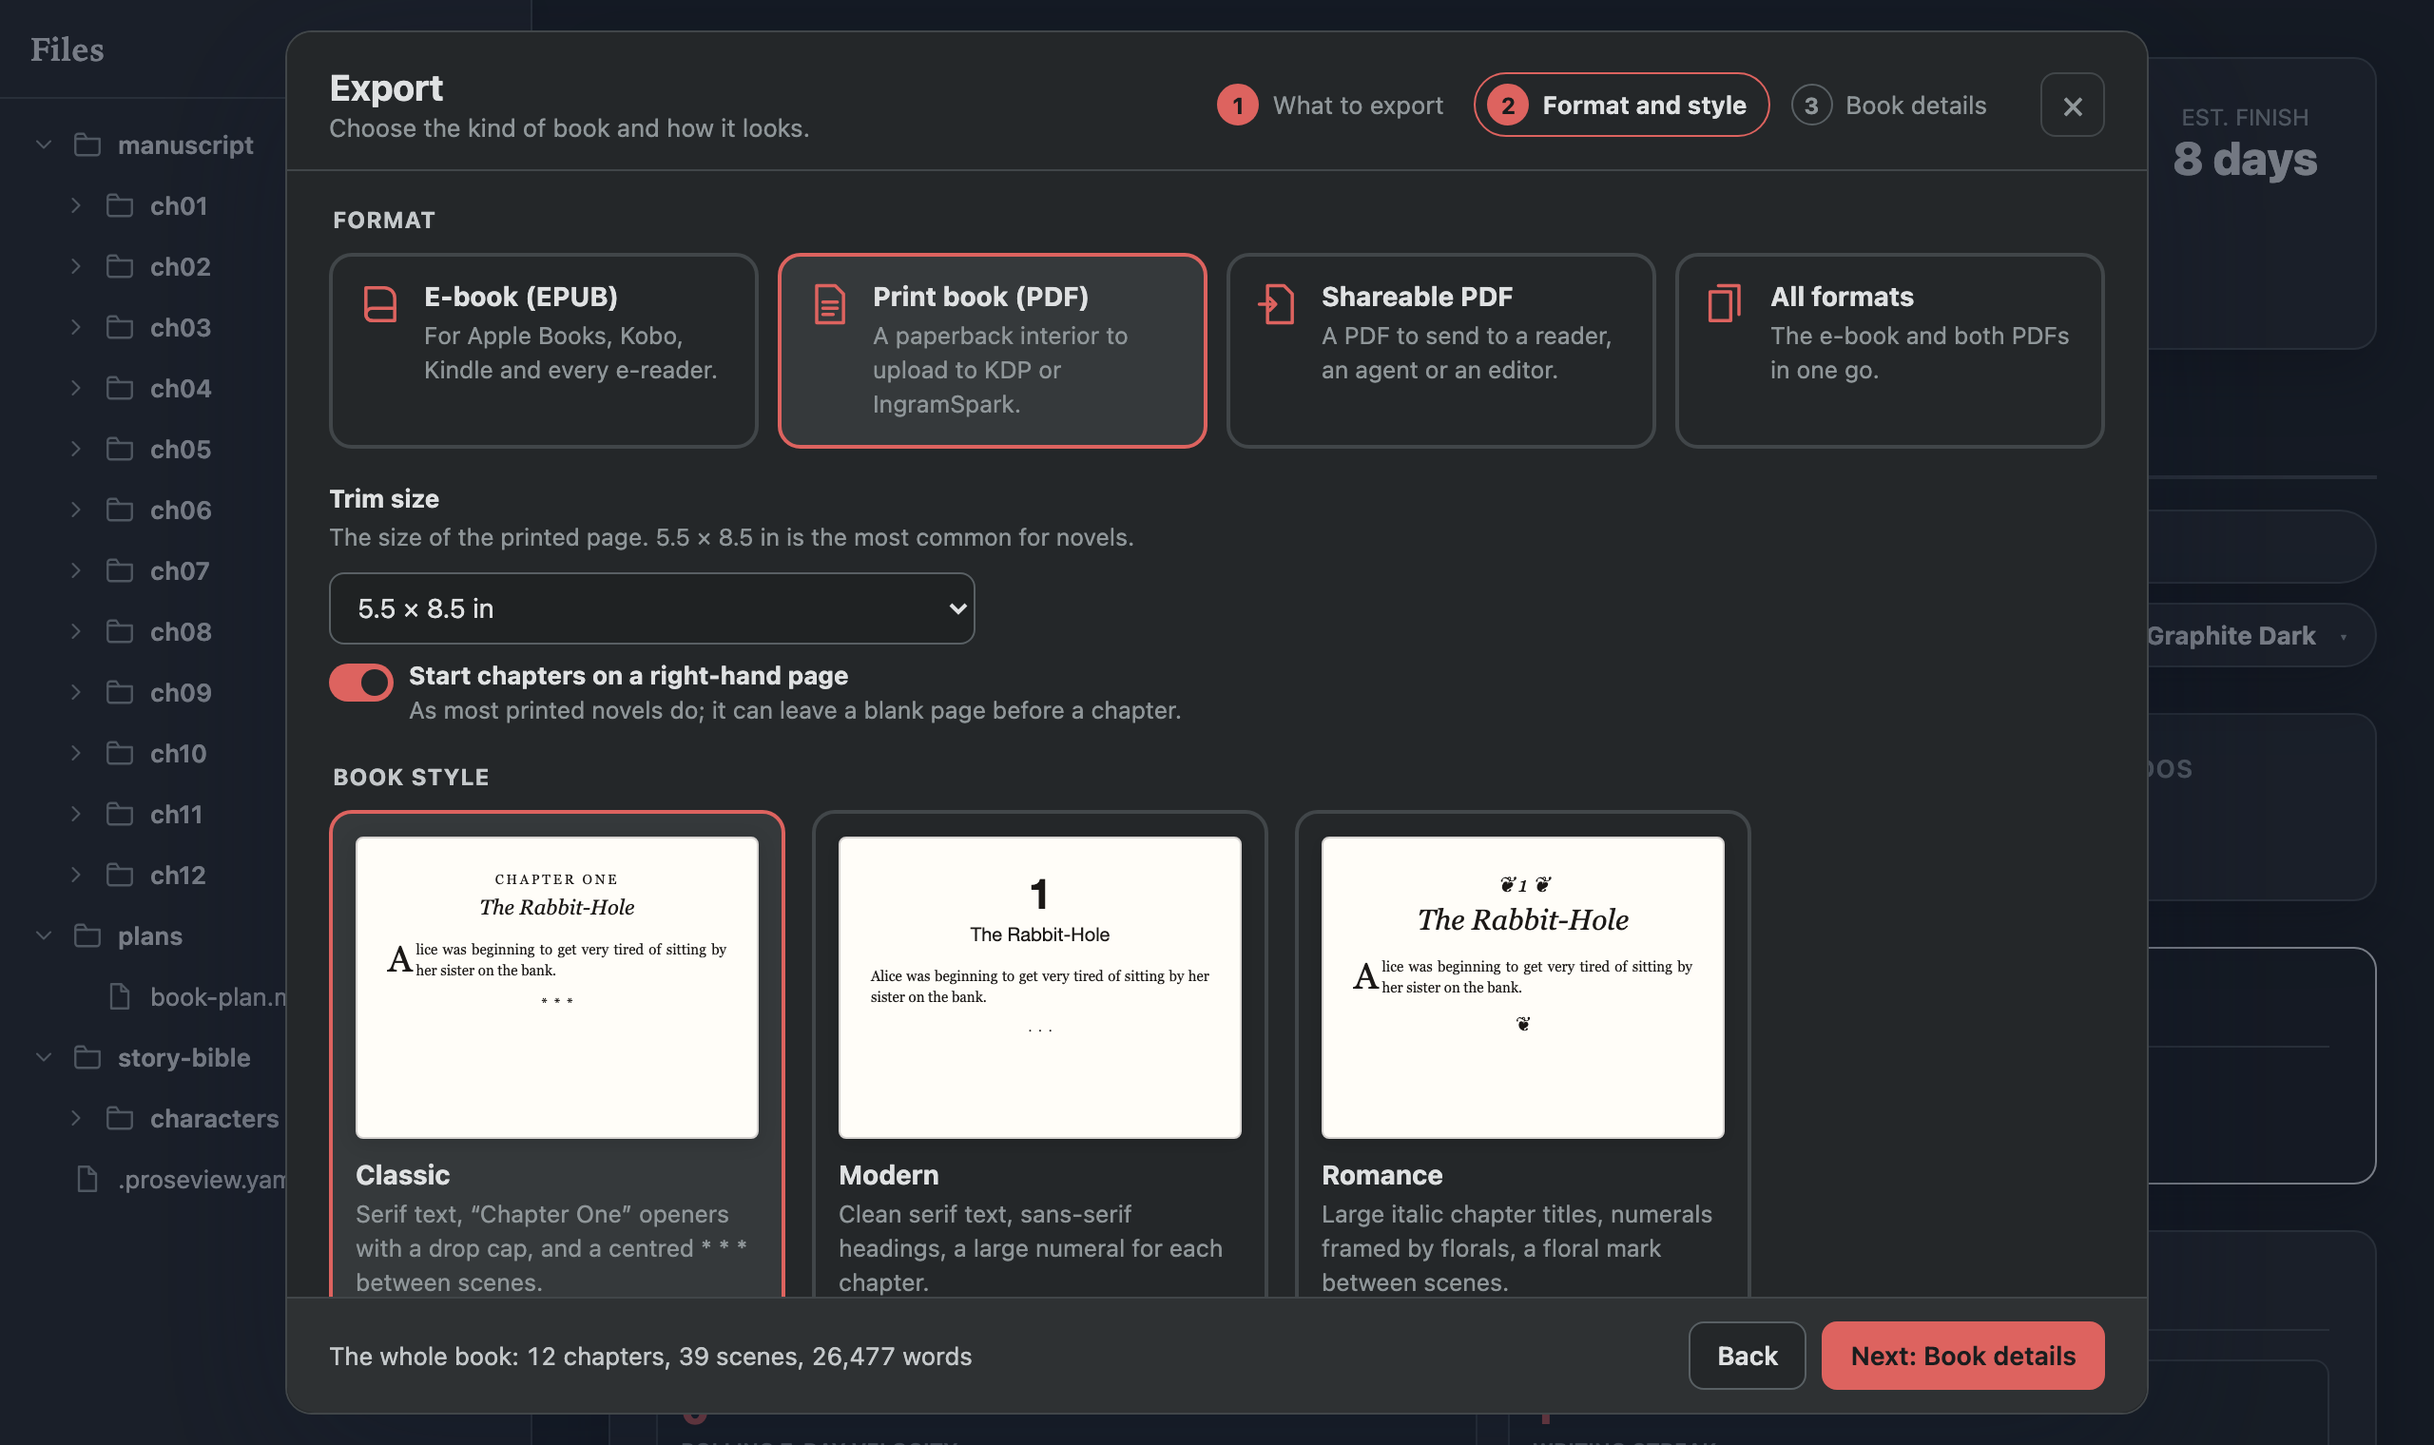
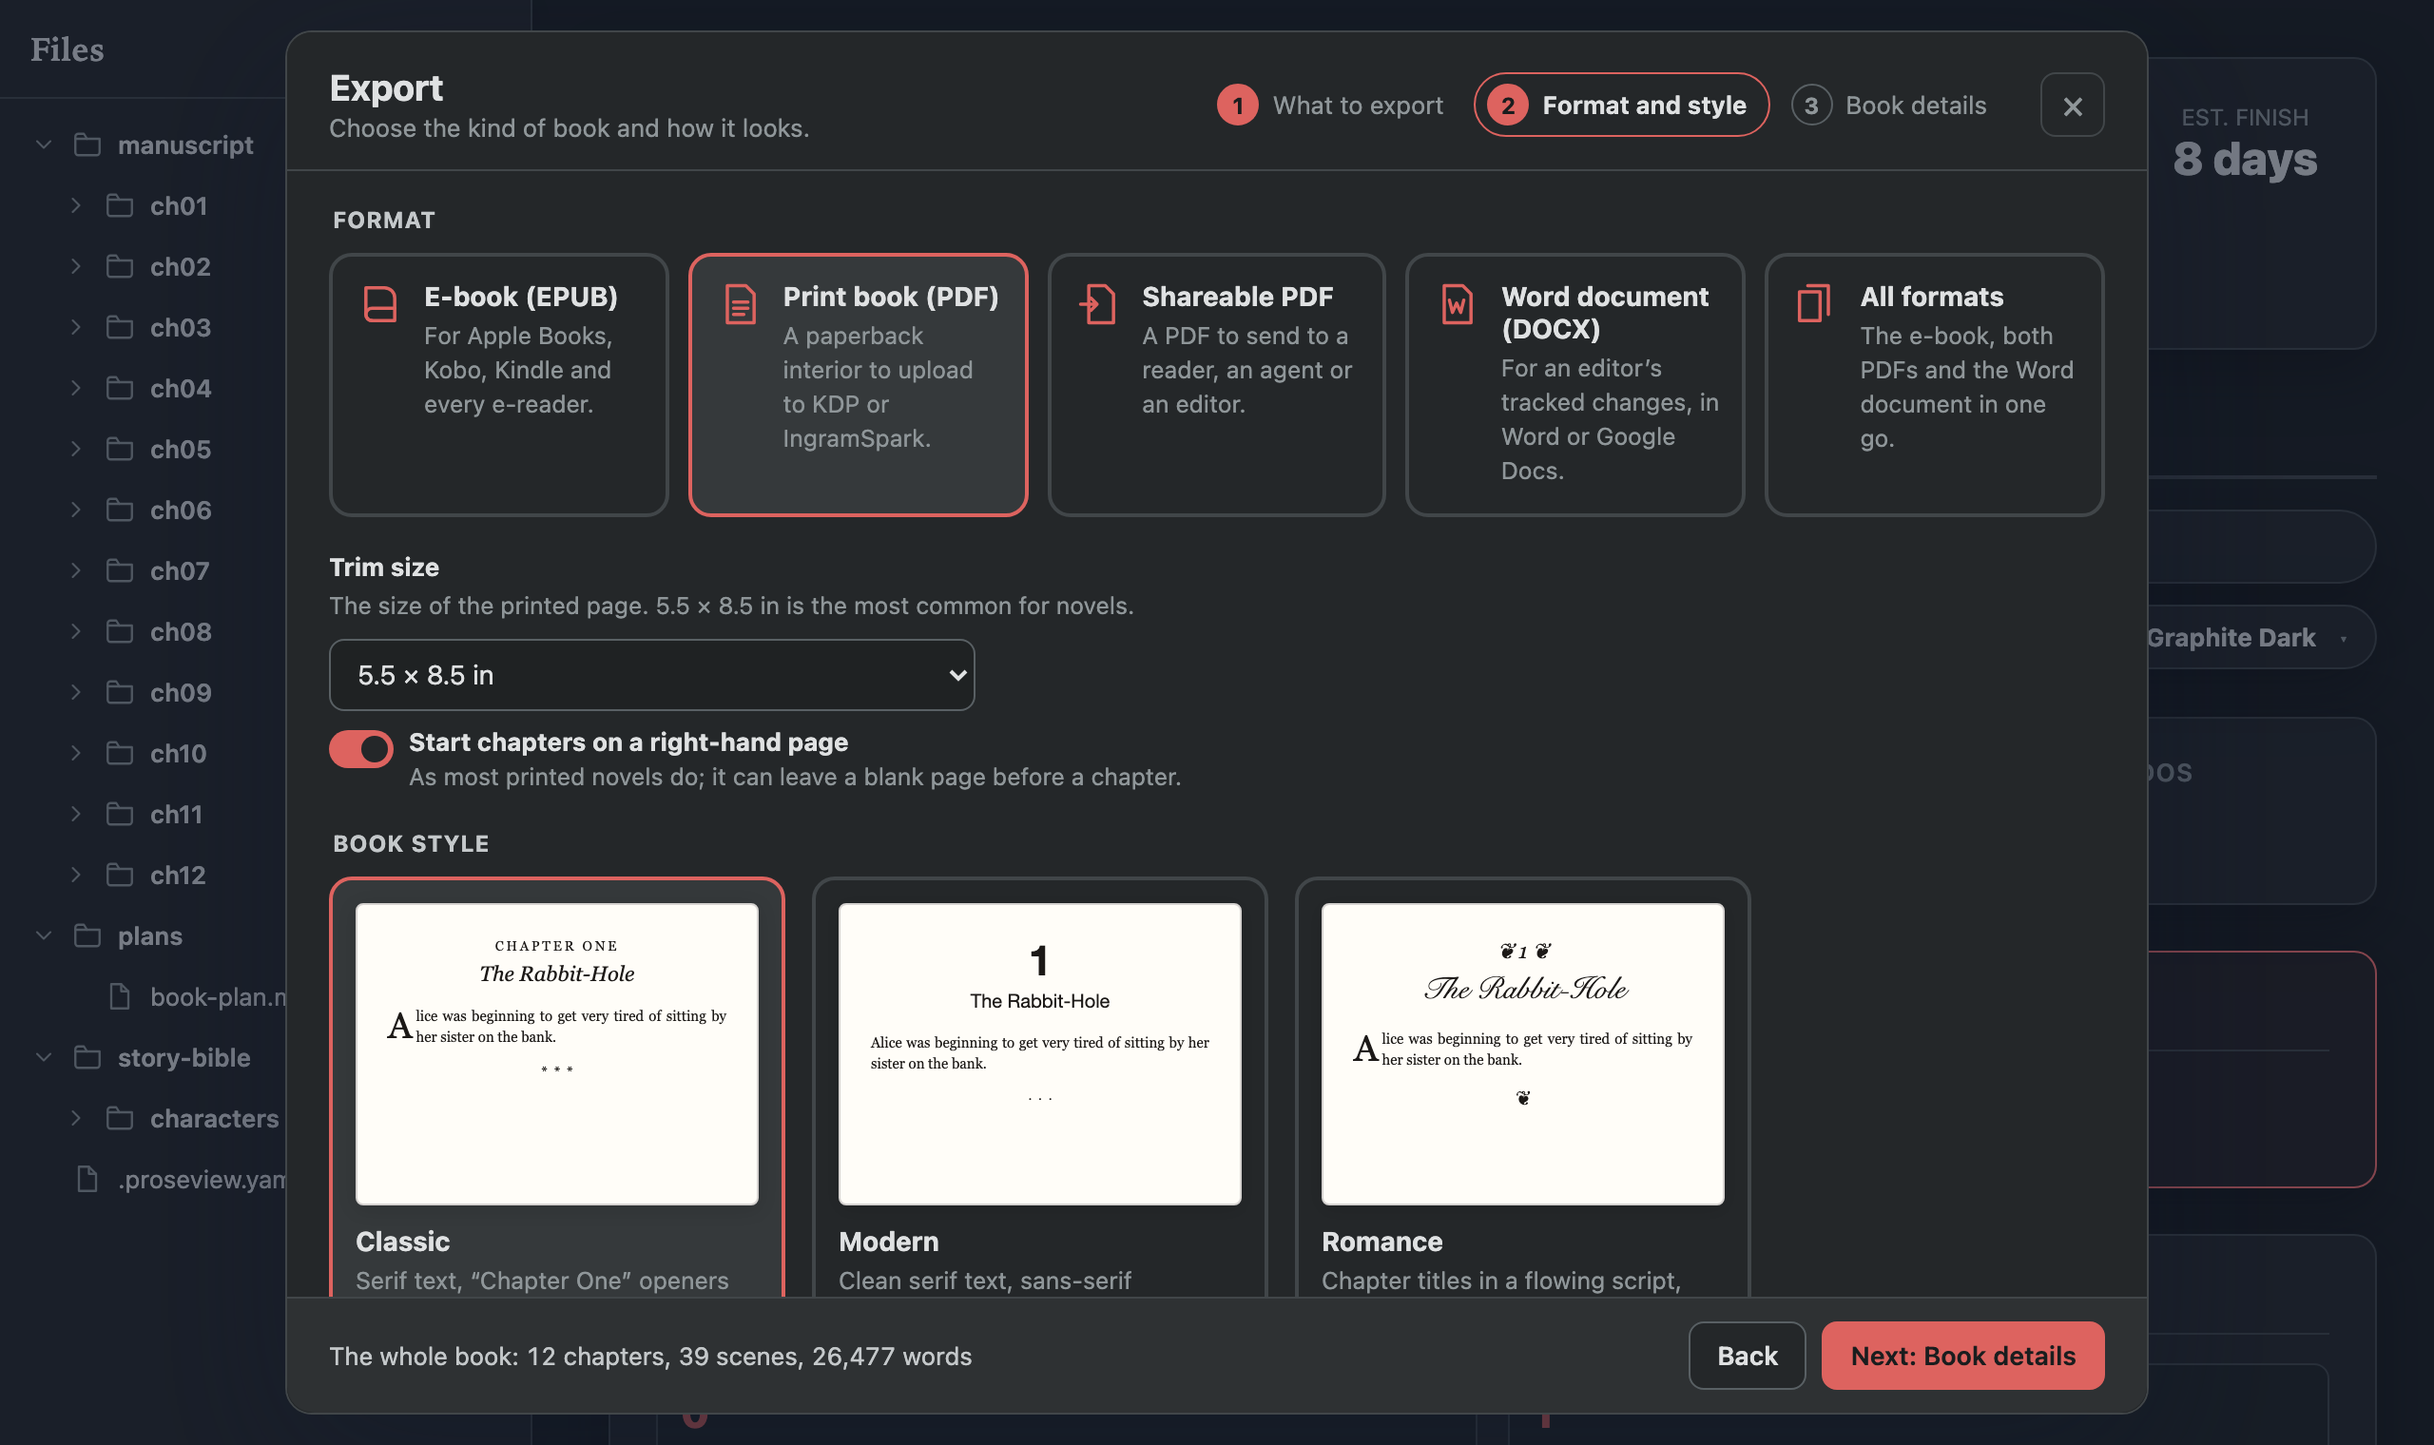
Show storylines on the home page, and point it at installing Proseview
A new Plan row shows the Timeline's charts and storyline lanes, from a
new storylines still. The comparison table says where each tool keeps
the book and lists Word among Proseview's exports. The browser version
is offered for trying Proseview rather than writing a book in: the
header and closing buttons lead to installing, and the install section
has the one card.

Re-record the export formats still with the Word card, and the hero
still on this Mac. record_demo_clips.py gains export-formats and
storylines stills.

diff --git a/site/index.html b/site/index.html
@@ -4,7 +4,7 @@
 <meta charset="utf-8">
 <meta name="viewport" content="width=device-width, initial-scale=1">
 <title>Proseview · A free writing studio for novels</title>
-<meta name="description" content="Write your novel in plain Markdown and read it like a book. Proseview is free and open source: a typeset page to write on, the whole book in one scroll, analysis for pacing and prose, and EPUB and print-ready PDF export.">
+<meta name="description" content="Write your novel in plain Markdown and read it like a book. Proseview is free and open source: a typeset page to write on, the whole book in one scroll, analysis for pacing and prose, and EPUB, print-ready PDF and Word export.">
 <meta property="og:title" content="Proseview · A free writing studio for novels">
 <meta property="og:description" content="Write your novel in plain Markdown and read it like a book. Free, open source, no account.">
 <meta property="og:url" content="https://ourarash.github.io/proseview/">
@@ -18,11 +18,12 @@
   <nav aria-label="Sections">
     <a href="#write">Write</a>
     <a href="#revise">Revise</a>
+    <a href="#plan">Plan</a>
     <a href="#publish">Publish</a>
     <a href="#compare">Compare</a>
     <a href="#faq">FAQ</a>
     <a href="https://github.com/ourarash/proseview">GitHub</a>
-    <a class="top-cta" href="write/">Start a new book</a>
+    <a class="top-cta" href="#get-started">Install</a>
   </nav>
 </header>
 
@@ -33,10 +34,10 @@
   <h1>Write your novel in plain&nbsp;Markdown.</h1>
   <p class="lede">Proseview turns a folder of Markdown scenes into a writing studio. Read it like a book, revise it with an editor's eye, and export an e-book or paperback.</p>
   <div class="actions">
-    <a class="button primary" href="write/">Start a new book</a>
+    <a class="button primary" href="write/">Try it in your browser</a>
     <a class="button" href="demo/#/scene/ch01%2F01-down-the-rabbit-hole.md">Try a sample book</a>
   </div>
-  <p class="fine">Nothing to install. The sample is <em>Alice in Wonderland</em>, and a book you start stays in your browser.</p>
+  <p class="fine">Nothing to install to try it. To write your book, <a href="#get-started">install Proseview</a>.</p>
   <ul class="badges" aria-label="Promises">
     <li><svg viewBox="0 0 24 24" aria-hidden="true"><path d="M6 3h9l4 4v14H6z"/><path d="M14 3v5h5"/></svg>Your files stay plain Markdown</li>
     <li><svg viewBox="0 0 24 24" aria-hidden="true"><circle cx="6" cy="5" r="2"/><circle cx="6" cy="19" r="2"/><circle cx="18" cy="8" r="2"/><path d="M6 7v10"/><path d="M18 10c0 5-12 3-12 7"/></svg>Every draft backed up with git</li>
@@ -93,13 +94,24 @@
     <ul>
       <li>Nine prose passes marked on the page: repetition, filter verbs, passive voice, crutch words and more.</li>
       <li>Chapter pacing, sentence rhythm and who appears where.</li>
-      <li>A timeline of storylines, and reading order against story order.</li>
     </ul>
   </div>
   <figure class="shot"><img src="images/demo-highlights.gif" width="780" height="463" loading="lazy" alt="The Analysis panel beside a scene, with highlight passes switched on and the matching words marked in the prose"></figure>
 </section>
 
-<section class="feature" id="ai">
+<section class="feature" id="plan">
+  <div class="copy">
+    <p class="eyebrow">Plan</p>
+    <h2>See every storyline at once.</h2>
+    <ul>
+      <li>Each storyline gets its own lane across the book, from a <code>thread:</code> line in a scene's frontmatter.</li>
+      <li>Chapter lengths and words per scene, to spot a chapter that runs long.</li>
+    </ul>
+  </div>
+  <figure class="shot"><img src="images/storylines.png" width="1956" height="1022" loading="lazy" alt="The Timeline tab for Alice's Adventures in Wonderland: each chapter's share of the book, a bar of words for every scene, and four storylines (rabbit, size, wonderland and court) as lanes showing which scenes belong to each"></figure>
+</section>
+
+<section class="feature flip" id="ai">
   <div class="copy">
     <p class="eyebrow">Ask, if you want to</p>
     <h2>Your own Codex or Claude, when you ask.</h2>
@@ -112,13 +124,13 @@
   <figure class="shot"><img src="images/demo-agents.gif" width="780" height="463" loading="lazy" alt="Asking an agent about the open scene in Proseview's side panel"></figure>
 </section>
 
-<section class="feature flip" id="publish">
+<section class="feature" id="publish">
   <div class="copy">
     <p class="eyebrow">Publish</p>
     <h2>From manuscript to the shelf.</h2>
     <ul>
       <li>An EPUB for every e-reader, and a paperback interior from 5 × 8 to 6 × 9 inches or A5.</li>
-      <li>Standard manuscript format for agents and editors.</li>
+      <li>A Word document for your editor's tracked changes, and standard manuscript format for agents.</li>
       <li>A plain-language check that the book is ready for the stores. Nothing else to install.</li>
     </ul>
   </div>
@@ -152,11 +164,11 @@
       </thead>
       <tbody>
         <tr><th scope="row">Price</th><td class="us">Free</td><td>$59.99 once (Mac)</td><td>Free</td><td>From $4 a month</td><td>From $10 a month</td></tr>
-        <tr><th scope="row">Your book is saved as</th><td class="us">Plain Markdown files</td><td>A Scrivener project</td><td>Google documents</td><td>Inside Novelcrafter</td><td>Inside Sudowrite</td></tr>
+        <tr><th scope="row">Where your book is kept</th><td class="us">Plain Markdown files on your computer</td><td>A Scrivener project on your computer</td><td>Online, in Google Drive</td><td>Online, in Novelcrafter</td><td>Online, in Sudowrite</td></tr>
         <tr><th scope="row">Account needed</th><td class="us">No</td><td>No</td><td>Google account</td><td>Yes</td><td>Yes</td></tr>
         <tr><th scope="row">Works offline</th><td class="us">Yes</td><td>Yes</td><td>With an extension</td><td>No</td><td>Writing only, in its phone app</td></tr>
         <tr><th scope="row">AI</th><td class="us">Your own Codex or Claude</td><td>None</td><td>Gemini, on eligible Google plans</td><td>Your own API key</td><td>Built in, paid with credits</td></tr>
-        <tr><th scope="row">Export</th><td class="us">EPUB, print-ready PDF</td><td>EPUB, PDF, Word and more</td><td>EPUB, PDF, Word</td><td>Word, Markdown</td><td>Word</td></tr>
+        <tr><th scope="row">Export</th><td class="us">EPUB, PDF, Word</td><td>EPUB, PDF, Word and more</td><td>EPUB, PDF, Word</td><td>Word, Markdown</td><td>Word</td></tr>
         <tr><th scope="row">Open source</th><td class="us">Yes (MIT)</td><td>No</td><td>No</td><td>No</td><td>No</td></tr>
       </tbody>
     </table>
@@ -165,24 +177,14 @@
 </section>
 
 <section class="ways" id="get-started">
-  <h2>Two ways to use Proseview</h2>
-  <div class="cards">
-    <article class="card">
-      <h3>In your browser</h3>
-      <p class="tag">Nothing to install</p>
-      <ul>
-        <li>Start a book in seconds: chapters, scenes, the dashboard and Read the book.</li>
-        <li>The book is kept in this browser. Download it as a folder any time.</li>
-        <li>EPUB export included.</li>
-      </ul>
-      <a class="button primary" href="write/">Start a new book</a>
-    </article>
+  <h2>Install Proseview</h2>
+  <div class="cards single">
     <article class="card">
       <h3>On your computer</h3>
       <p class="tag">macOS, Linux and Windows · Python 3.11+</p>
       <ul>
         <li>Works on your own folders, beside git, Obsidian or any editor.</li>
-        <li>Adds print-ready PDFs and the optional Codex and Claude panel.</li>
+        <li>Everything, including print-ready PDFs and the optional Codex and Claude panel.</li>
       </ul>
       <div class="install">
         <code id="installCmd">pipx install "proseview[claude]"</code>
@@ -195,6 +197,7 @@
       <a class="button" href="https://github.com/ourarash/proseview#-quick-start">Read the quick start</a>
     </article>
   </div>
+  <p class="ways-note">Just trying it? <a href="write/">Start a book in your browser</a>.</p>
 </section>
 
 <section class="faq" id="faq">
@@ -228,8 +231,8 @@
 <section class="closing">
   <h2>Start the next chapter.</h2>
   <div class="actions">
-    <a class="button primary" href="write/">Start a new book</a>
-    <a class="button" href="demo/#/scene/ch01%2F01-down-the-rabbit-hole.md">Try a sample book</a>
+    <a class="button primary" href="#get-started">Install Proseview</a>
+    <a class="button" href="write/">Try it in your browser</a>
   </div>
 </section>
 

diff --git a/site/landing.css b/site/landing.css
@@ -281,6 +281,8 @@ kbd {
 
 .ways h2, .faq h2, .closing h2 { text-align: center; }
 .cards { display: grid; grid-template-columns: repeat(2, minmax(0, 1fr)); gap: 20px; margin-top: 32px; }
+.cards.single { grid-template-columns: minmax(0, 1fr); max-width: 640px; margin-inline: auto; }
+.ways-note { margin: 20px 0 0; text-align: center; color: var(--muted); }
 .card {
   display: flex;
   flex-direction: column;
@@ -324,7 +326,7 @@ kbd {
 .faq details { border-bottom: 1px solid var(--line); padding: 18px 0; }
 .faq summary { cursor: pointer; font-family: var(--serif); font-size: 21px; font-weight: 600; }
 .faq details p { margin: 12px 0 0; color: var(--muted); }
-.faq code { font: 15px var(--mono); }
+.faq code, .feature li code { font: 15px var(--mono); }
 
 /* Closing and footer */
 

diff --git a/scripts/record_demo_clips.py b/scripts/record_demo_clips.py
@@ -415,8 +415,48 @@ def shot_writing(page, base, docs):
     page.wait_for_timeout(1200)
 
 
+def shot_export_formats(page, base, docs):
+    # The Export dialog's second step with Print book chosen, so its trim
+    # size and right-hand chapters show under every format card.
+    page.goto(base, wait_until="load")
+    page.wait_for_selector("#tab-overview", state="visible")
+    page.get_by_role("button", name="Export").first.click()
+    page.wait_for_selector("#exportTree .export-chapter")
+    page.get_by_role("button", name="Next: Format and style").click()
+    page.get_by_role("radio", name="Print book (PDF)").check()
+    page.wait_for_timeout(800)
+
+
+def shot_storylines(page, base, docs):
+    # The landing page's storylines row: the Timeline tab's charts alone,
+    # without the sidebar and header, so the lanes read at page width.
+    # Tall enough that the charts and the lanes fit without scrolling.
+    page.set_viewport_size({"width": VIEWPORT["width"], "height": 1100})
+    page.goto(base, wait_until="load")
+    page.evaluate("() => showTab('timeline')")
+    page.wait_for_selector("#tab-timeline", state="visible")
+    # Charts animate in; a still taken too early catches half-drawn bars.
+    page.wait_for_timeout(2600)
+    # From "Proportion of the book" down to the storylines' note, with a
+    # margin of the page's own background around it.
+    return page.evaluate(
+        """() => {
+            const host = document.getElementById('timelineContent');
+            const top = host.getBoundingClientRect().top;
+            // The first note sums up the charts, the second the storylines.
+            const note = host.querySelectorAll('.story-note')[1];
+            const box = host.getBoundingClientRect();
+            const bottom = note ? note.getBoundingClientRect().bottom : box.bottom;
+            const pad = 24;
+            return {x: box.left - pad, y: top - pad, width: box.width + 2 * pad, height: bottom - top + 2 * pad};
+        }"""
+    )
+
+
 SHOTS = {
     "write-a-scene": shot_writing,
+    "storylines": shot_storylines,
+    "export-formats": shot_export_formats,
     "dashboard": shot_dashboard,
     "analytics": shot_analytics,
     "read-the-book": shot_book,
@@ -433,8 +473,12 @@ def capture(name: str, flow, port: int = 7861) -> Path:
             ctx = browser.new_context(viewport=VIEWPORT, device_scale_factor=2)
             ctx.add_init_script(f"localStorage.setItem('proseview-theme','{THEME}')")
             page = ctx.new_page()
-            flow(page, base, scenes(base))
-            page.screenshot(path=str(out), full_page=False)
+            target = flow(page, base, scenes(base))
+            # A still may name the part of the window it shows; otherwise it is the window.
+            if target is not None:
+                page.screenshot(path=str(out), clip=target)
+            else:
+                page.screenshot(path=str(out), full_page=False)
             browser.close()
     finally:
         proc.terminate()

diff --git a/scripts/build_site.py b/scripts/build_site.py
@@ -31,7 +31,7 @@ NOT_IN_BROWSER = {"typst"}
 #: README images the landing page shows.
 LANDING_IMAGES = (
     "dashboard.png", "write-a-scene.png", "demo-writing.gif", "demo-highlights.gif",
-    "demo-timeline.gif", "demo-agents.gif", "export-preview.png",
+    "demo-timeline.gif", "demo-agents.gif", "export-preview.png", "storylines.png",
 )
 
 
